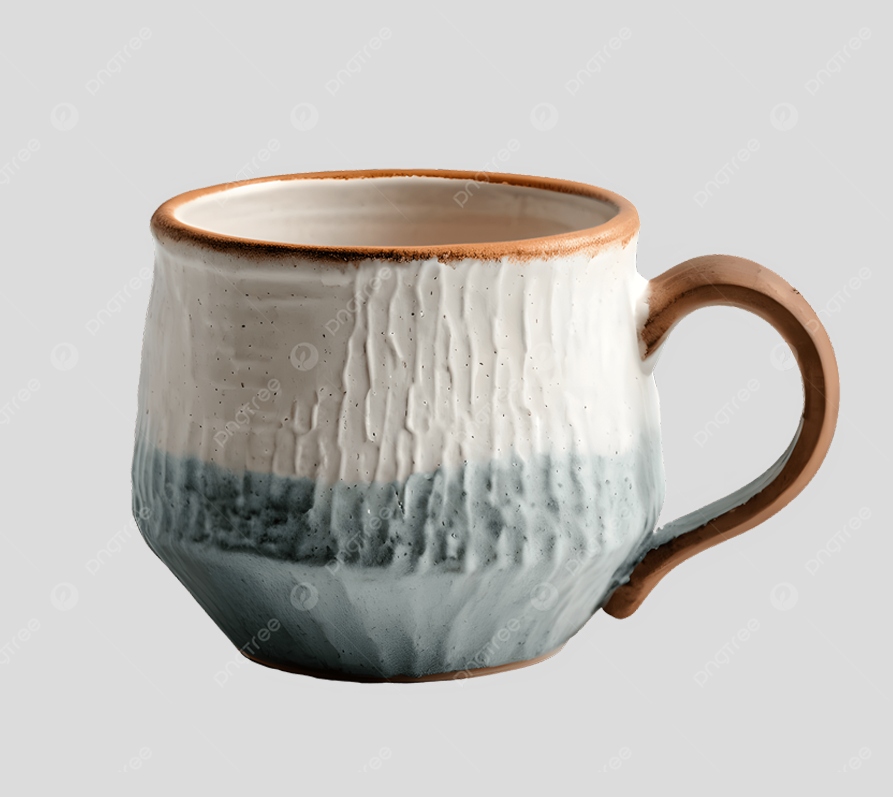
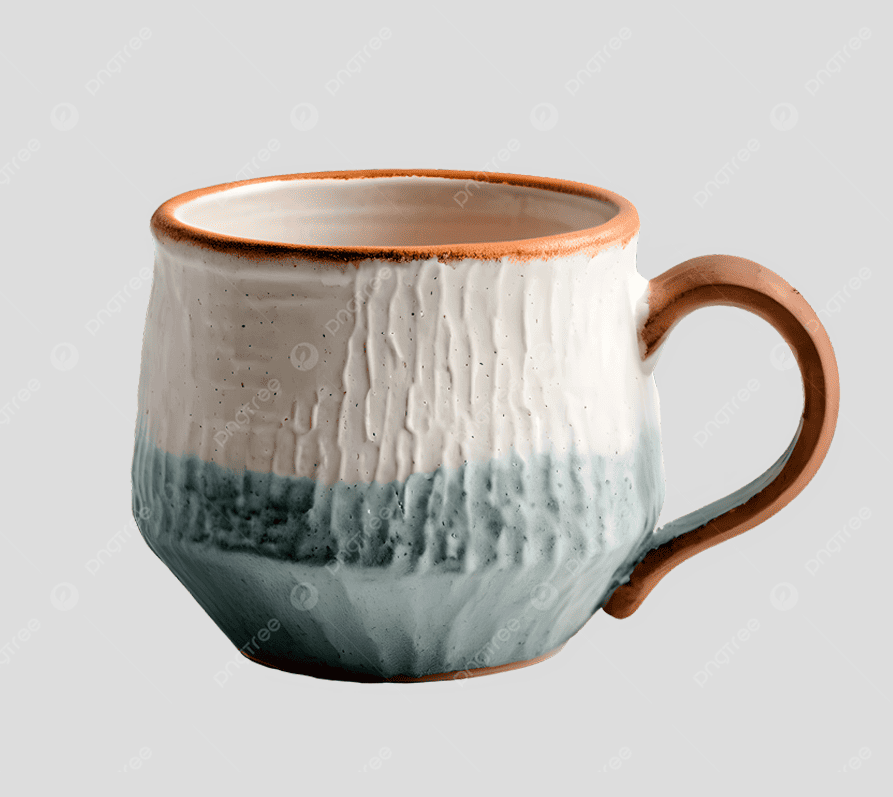
.

diff --git a/index.html b/index.html
@@ -140,7 +140,7 @@
 
               <li class="flex gap-4 pr-4">
                 <figure class="img-holder w-20 h-20 rounded-md flex-shrink-0" style="--width: 80; --height: 80">
-                  <img src="./assets/imgs/cart-bordado.jpg" width="80" height="80" loading="lazy"
+                  <img src="./assets/imgs/cart-bordado.webp" width="80" height="80" loading="lazy"
                     alt="Quadrinho bordado">
                 </figure>
 